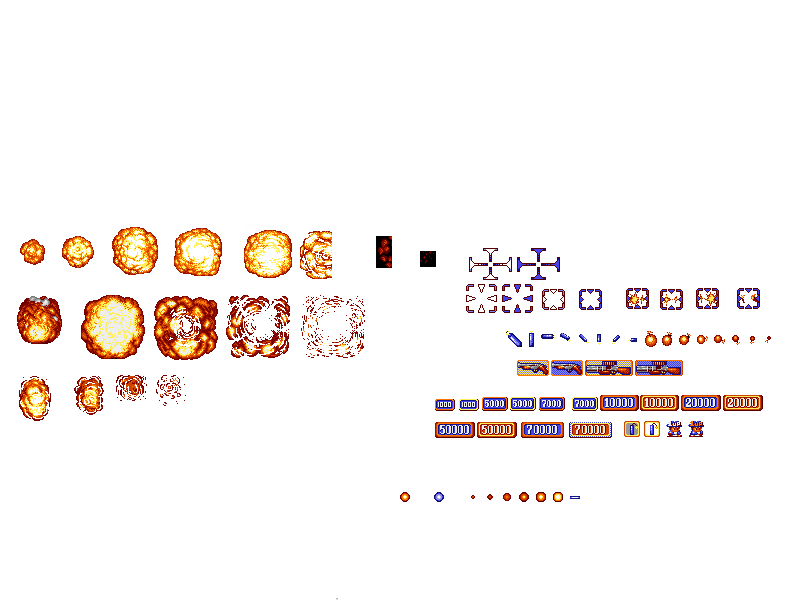
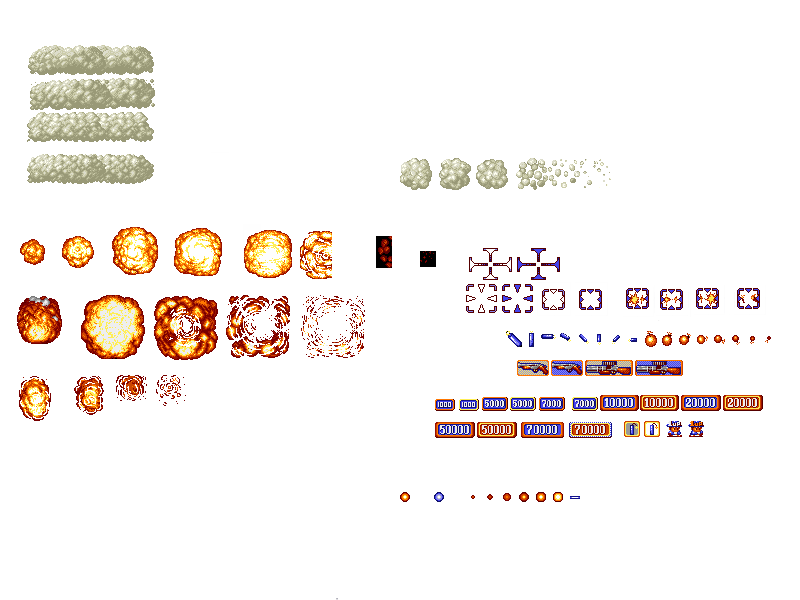
smoke added
show smoke when the building is falling down

Changed region(s): [[0.0312, 0.06, 0.2188, 0.33], [0.5, 0.27, 0.75, 0.33]]

diff --git a/Goodbros/ModuleParticles.cpp b/Goodbros/ModuleParticles.cpp
@@ -16,17 +16,60 @@ ModuleParticles::ModuleParticles()
 		active[i] = nullptr;
 
 	//shot.anim.PushBack({ 625, 288, 22, 14 });
-	enemyshot.anim.PushBack({ 471, 495, 3, 3});
-	enemyshot.anim.PushBack({ 487, 494, 5, 5 });
-	enemyshot.anim.PushBack({503, 493, 7, 7 });
-	enemyshot.anim.PushBack({ 519, 494, 9, 9 });
-	enemyshot.anim.PushBack({ 236, 294, 9, 9 });
-	enemyshot.anim.PushBack({ 236, 294, 9, 9 });
+	enemyshot.anim.PushBack({ 400, 492, 10, 10});
+	enemyshot.anim.PushBack({ 434, 492, 10, 10 });
+	
 	enemyshot.anim.loop = true;
-	enemyshot.anim.speed = 0.05f;
+	enemyshot.anim.speed = 0.02f;
 	enemyshot.speed.y = 1.5f;
 	enemyshot.life = 2000;
+
+
+	//smoke.anim.pushback;
+	smoke.anim.PushBack({ 27, 45, 127, 30 });
+	smoke.anim.PushBack({ 27, 77, 127, 30 });
+	smoke.anim.PushBack({ 27, 112, 127, 30 });
+	smoke.anim.PushBack({ 27, 153, 127, 30 });
+	smoke.anim.PushBack({ 27, 45, 127, 30 });
+	smoke.anim.PushBack({ 27, 77, 127, 30 });
+	smoke.anim.PushBack({ 27, 112, 127, 30 });
+	smoke.anim.PushBack({ 27, 153, 127, 30 });
+	smoke.anim.PushBack({ 27, 45, 127, 30 });
+	smoke.anim.PushBack({ 27, 77, 127, 30 });
+	smoke.anim.PushBack({ 27, 112, 127, 30 });
+	smoke.anim.PushBack({ 27, 153, 127, 30 });
+	smoke.anim.PushBack({ 27, 45, 127, 30 });
+	smoke.anim.PushBack({ 27, 77, 127, 30 });
+	smoke.anim.PushBack({ 27, 112, 127, 30 });
+	smoke.anim.PushBack({ 27, 153, 127, 30 });
+	smoke.anim.PushBack({ 27, 45, 127, 30 });
+	smoke.anim.PushBack({ 27, 77, 127, 30 });
+	smoke.anim.PushBack({ 27, 112, 127, 30 });
+	smoke.anim.PushBack({ 27, 153, 127, 30 });
+	smoke.anim.PushBack({ 27, 45, 127, 30 });
+	smoke.anim.PushBack({ 27, 77, 127, 30 });
+	smoke.anim.PushBack({ 27, 112, 127, 30 });
+	smoke.anim.PushBack({ 27, 153, 127, 30 });
+	smoke.anim.PushBack({ 27, 45, 127, 30 });
+	smoke.anim.PushBack({ 27, 77, 127, 30 });
+	smoke.anim.PushBack({ 27, 112, 127, 30 });
+	smoke.anim.PushBack({ 27, 153, 127, 30 });
+	smoke.anim.PushBack({ 27, 45, 127, 30 });
+	smoke.anim.PushBack({ 27, 77, 127, 30 });
+	smoke.anim.PushBack({ 27, 112, 127, 30 });
+	smoke.anim.PushBack({ 27, 153, 127, 30 });
+	smoke.anim.PushBack({ 27, 45, 127, 30 });
+	smoke.anim.PushBack({ 27, 77, 127, 30 });
+	smoke.anim.PushBack({ 27, 112, 127, 30 });
+	smoke.anim.PushBack({ 27, 153, 127, 30 });
+	smoke.anim.PushBack({ 27, 45, 127, 30 });
+	smoke.anim.PushBack({ 27, 77, 127, 30 });
+
+	smoke.anim.loop = true;
+	smoke.anim.speed = 0.14f;
+	smoke.life = 12000;
 }
+   
 
 ModuleParticles::~ModuleParticles()
 {}

diff --git a/Goodbros/ModuleStructures.cpp b/Goodbros/ModuleStructures.cpp
@@ -149,7 +149,7 @@ update_status ModuleStructures::Update()
 		}
 		else if (p->hits > 3){
 			App->collision->EraseCollider(p->collider);
-			App->render->Blit(graphics, p->position.x, p->position.y += 0.6f, &p->destroy.GetCurrentFrame());
+			App->render->Blit(graphics, p->position.x, p->position.y += 0.53f, &p->destroy.GetCurrentFrame());
 			
 			/*p->collider->to_delete = true;
 			delete p;*/
@@ -216,6 +216,7 @@ void ModuleStructures::OnCollision(Collider* c1, Collider* c2)
 				active[i]->Coll_Struct.w = 0;
 				active[i]->Coll_Struct.h = 0;
 				active[i]->hits++;
+				App->particles->AddParticle(App->particles->smoke, active[i]->position.x - 10, active[i]->position.y + 125, COLLIDER_PLAYER_NOSHOT, 0);
 			}
 			/*delete[] active[i]->collider;
 			active[i]->collider = nullptr;//PROBLEM//*/

diff --git a/Goodbros/Animation.h b/Goodbros/Animation.h
@@ -2,7 +2,7 @@
 #define __ANIMATION_H__
 
 #include "SDL/include/SDL_rect.h"
-#define MAX_FRAMES 25
+#define MAX_FRAMES 50
 
 class Animation
 {

diff --git a/Goodbros/ModuleParticles.h b/Goodbros/ModuleParticles.h
@@ -51,6 +51,7 @@ public:
 	Particle explosion;
 	Particle shot;
 	Particle enemyshot;
+	Particle smoke;
 };
 
 #endif // __MODULEPARTICLES_H__
